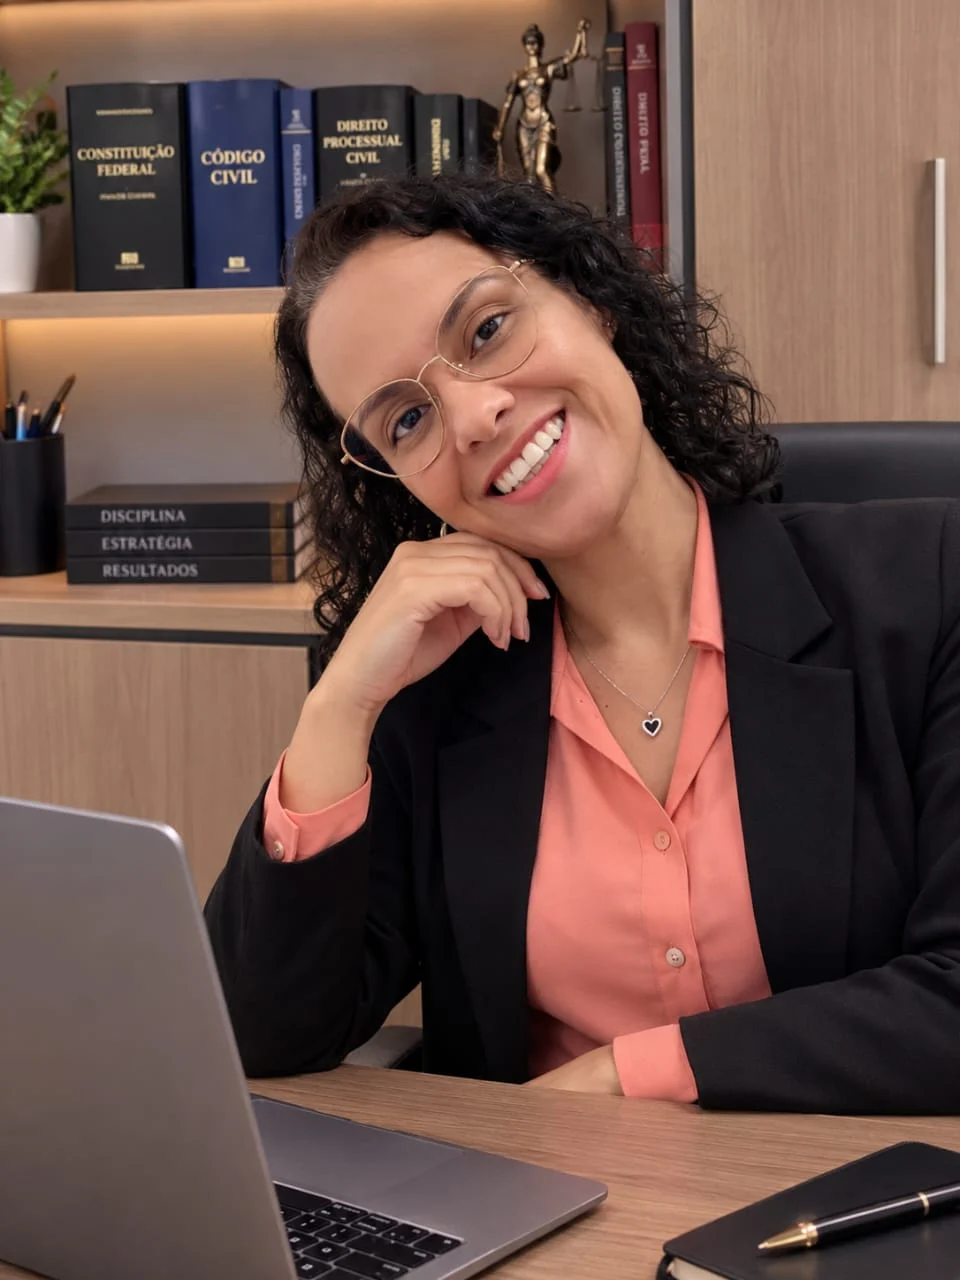
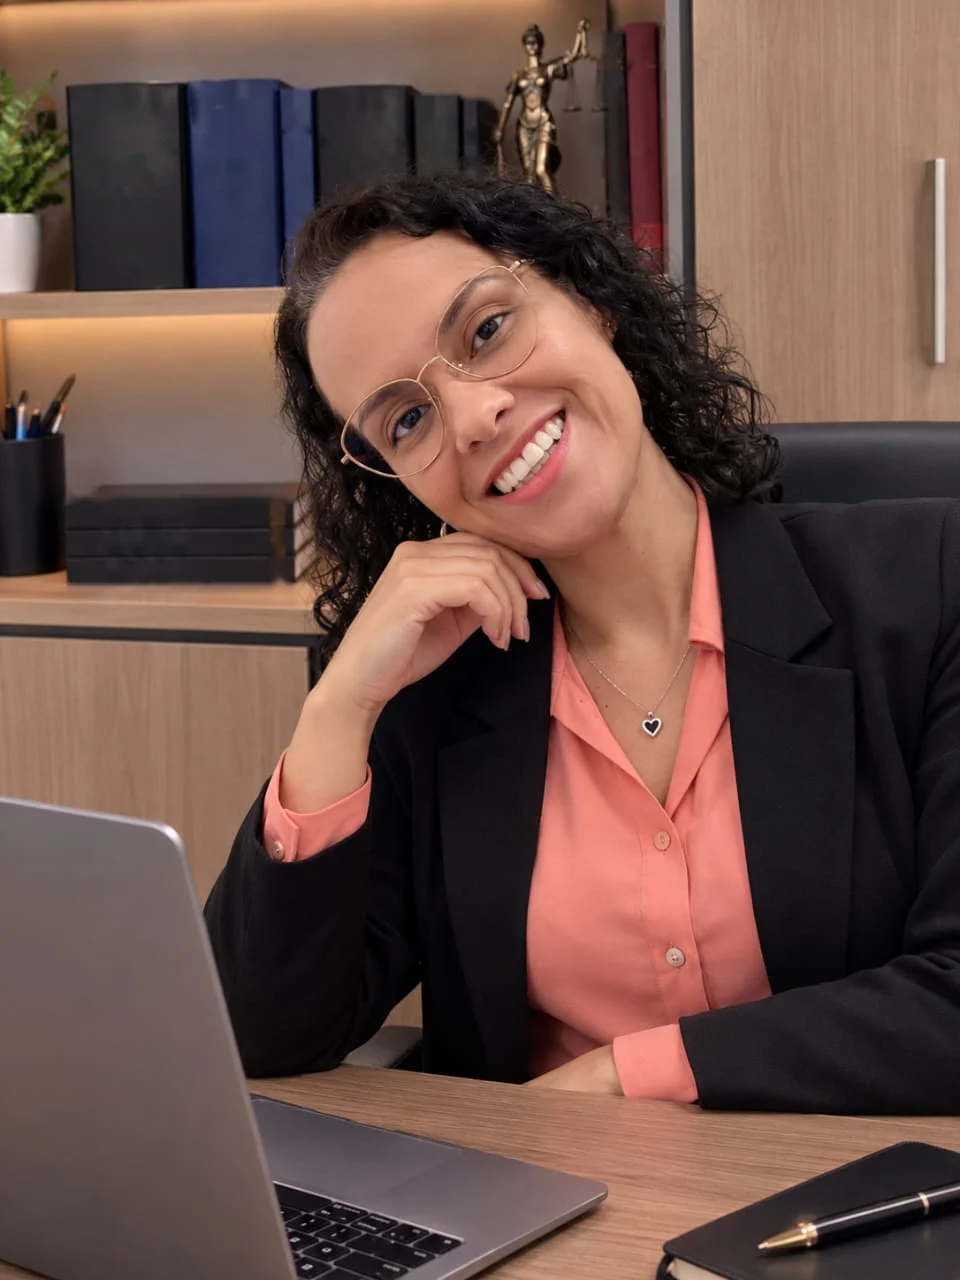
Foto da Sobre: remove as escritas das lombadas dos livros
Claude-Session: https://claude.ai/code/session_01WcqeUTEMA2hJnUTVQEaxVA

diff --git a/index.html b/index.html
@@ -167,7 +167,7 @@ Fale pelo WhatsApp
 <section id="sobre" style="background: #F3F0E8">
 <div style="max-width: 1240px; margin: 0 auto; padding: 104px 24px; display: flex; flex-wrap: wrap; gap: 56px; align-items: flex-start">
 <div style="flex: 0 1 400px; min-width: 0; max-width: 420px; aspect-ratio: 4 / 5; background: #E4DFD4; overflow: hidden">
-<img src="assets/elisangela.webp" alt="Advogada Elisângela Paula Santos em seu escritório" loading="lazy" style="display: block; width: 100%; height: 100%; object-fit: cover; object-position: center 35%">
+<img src="assets/elisangela.webp?v=2" alt="Advogada Elisângela Paula Santos em seu escritório" loading="lazy" style="display: block; width: 100%; height: 100%; object-fit: cover; object-position: center 35%">
 </div>
 <div style="flex: 999 1 480px; min-width: 0; display: flex; flex-direction: column; gap: 22px">
 <span style="font-size: 12px; letter-spacing: 2.4px; text-transform: uppercase; color: #2E3A4B; font-weight: 600">Sobre</span>
